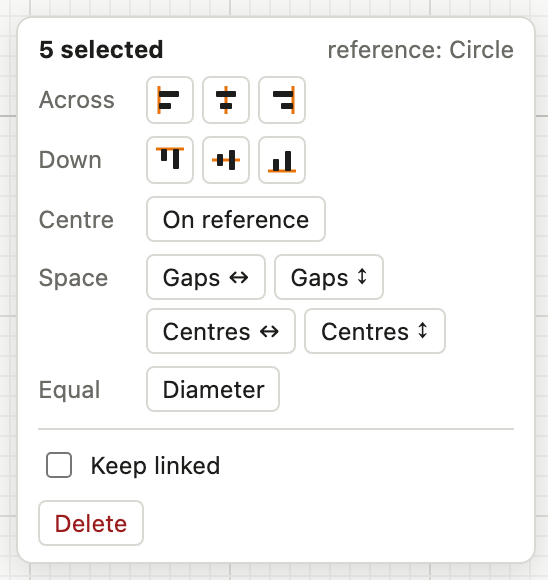
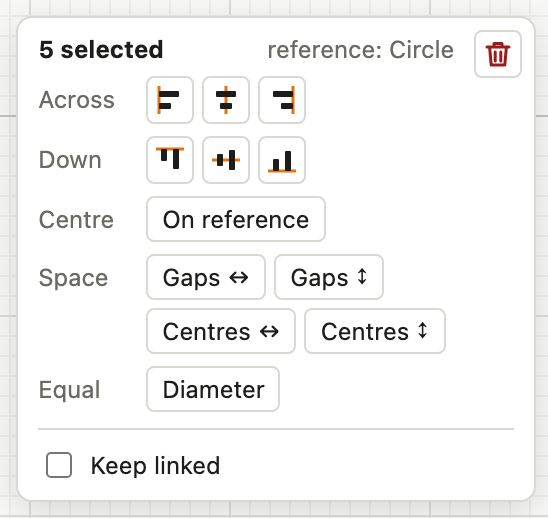
Version 1.2.0: shape names, title block on the last tiled sheet
Shapes can be named and show their names on the drawing and in output
(with a Shape names print option); tiled prints put the title block and
check ruler on the last sheet only; the selection panel deletes with a
bin at its top right; ⌘A selects every shape. Docs screenshots retaken
for the new panel and print dialog, their alt texts updated; README and
CHANGELOG follow.

diff --git a/CHANGELOG.md b/CHANGELOG.md
@@ -1,5 +1,22 @@
 # Changelog
 
+## 1.2.0 — 2026-11-26
+
+- **Shape names.** Any shape can have a name, typed into the top of the
+  selection panel; until then it goes by its id. Once named, tick **show**
+  to write the name in the middle of the shape, on screen and in print,
+  PDF and SVG. Print / Export's new **Shape names** option (on to start)
+  leaves them out. Text boxes have names but don't show them.
+- **Tiled prints** put the title block and check ruler on the last sheet
+  only, bottom right, where the title block sits on the taped-up drawing.
+  The other sheets are labelled A1, A2… at their foot, and the rows above
+  the bottom one use the sheet's full height, so a tall drawing can need
+  fewer sheets.
+- The selection panel's **Delete** button is now a bin at its top right.
+- **⌘A** (Ctrl+A) selects every shape on a visible, unlocked layer,
+  instead of the page's text.
+- The guide at delinya.org now has screenshots throughout.
+
 ## 1.1.1 — 2026-11-26
 
 - **Print options.** The title block and the 100 mm check ruler are

diff --git a/plans/status.md b/plans/status.md
@@ -1,11 +1,13 @@
 # Delinya — Status and Handoff
 
 Last updated 2026-11-26. Repo `sandtreader/delinya`, branch `main`.
-v1.1.1 (print: optional title block, default on, and check ruler,
-default off) is committed and deployed to delinya.net, with its
-documentation site at delinya.org
-(`site/`; see Documentation site) and `CHANGELOG.md`. It builds on
-v1.1.0 (per-layer fills and patterns, renaming variables), v1.0.0, the
+v1.2.0 (shape names, the title block and check ruler on the last tiled
+sheet only, the selection panel's bin, ⌘A select all; the guide
+illustrated throughout) is committed, with its documentation site at
+delinya.org (`site/`; see Documentation site) and `CHANGELOG.md`. It
+builds on v1.1.1 (print: optional title block, default on, and check
+ruler, default off), v1.1.0 (per-layer fills and patterns, renaming
+variables), v1.0.0, the
 first public release, v0.3.0
 (collaboration: the Collaborate card with Start and Join session, share
 links, other people's cursors; see Collaboration), v0.2.2 (line styles,

diff --git a/README.md b/README.md
@@ -18,7 +18,7 @@ the first use, not a limit. (*Delinya* is Cornish for "to draw".)
 - Links: equal values through shared variables, and alignment and even
   spacing that follow later edits.
 - Dimensions and radius labels, added automatically or by hand with the
-  Dimension tool.
+  Dimension tool; shape names, shown on the drawing where you want them.
 - Layers with colours, see-through fills and patterns, hiding and locking;
   line styles (ISO pen widths and dashed, dotted and centre lines).
 - Save and open `.dln` files; print at true scale, tiled across sheets with
